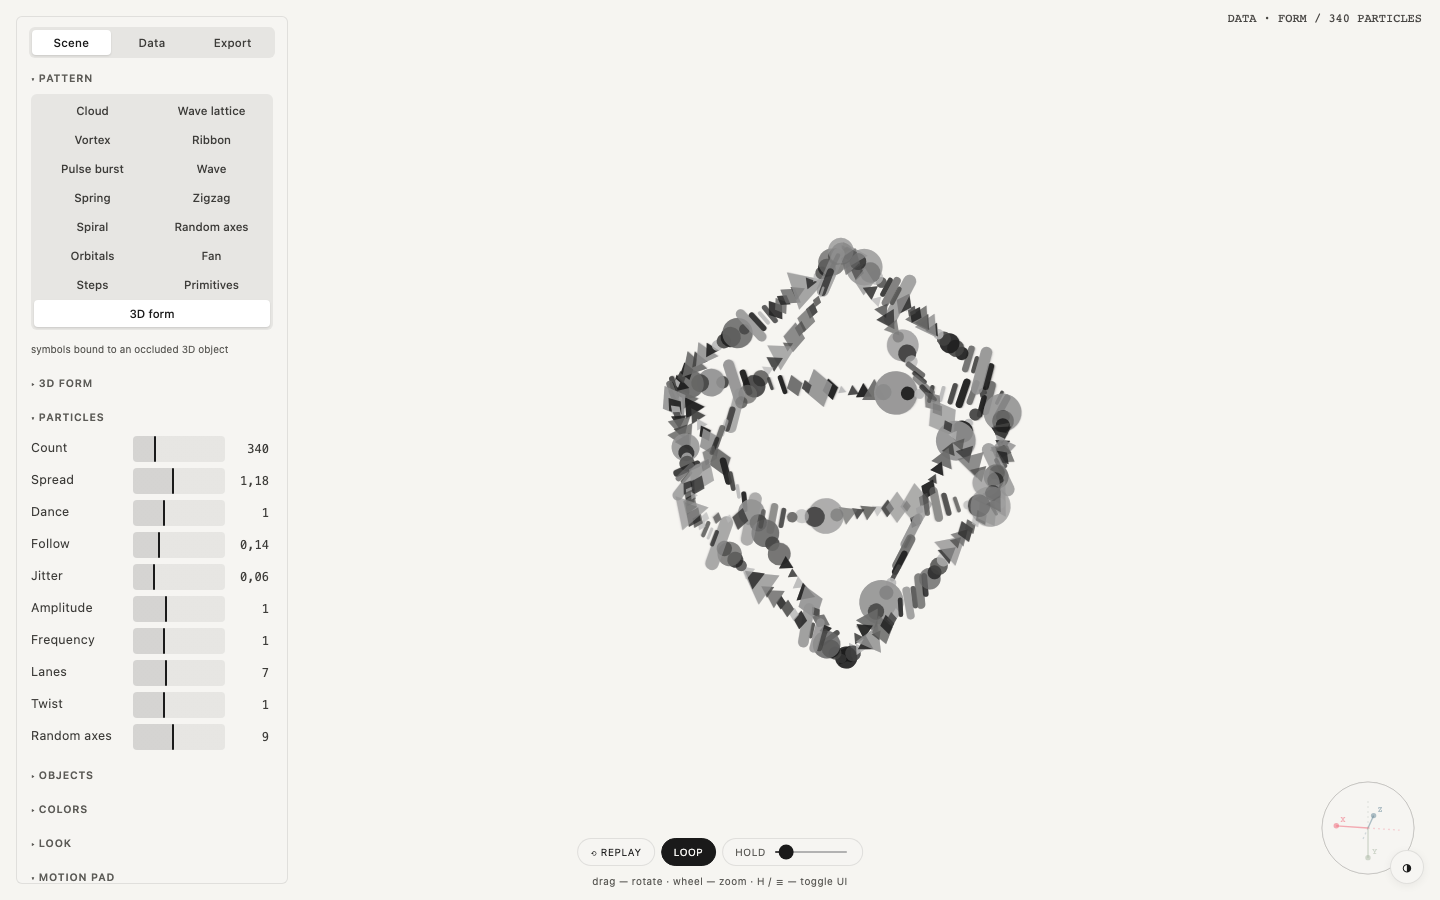
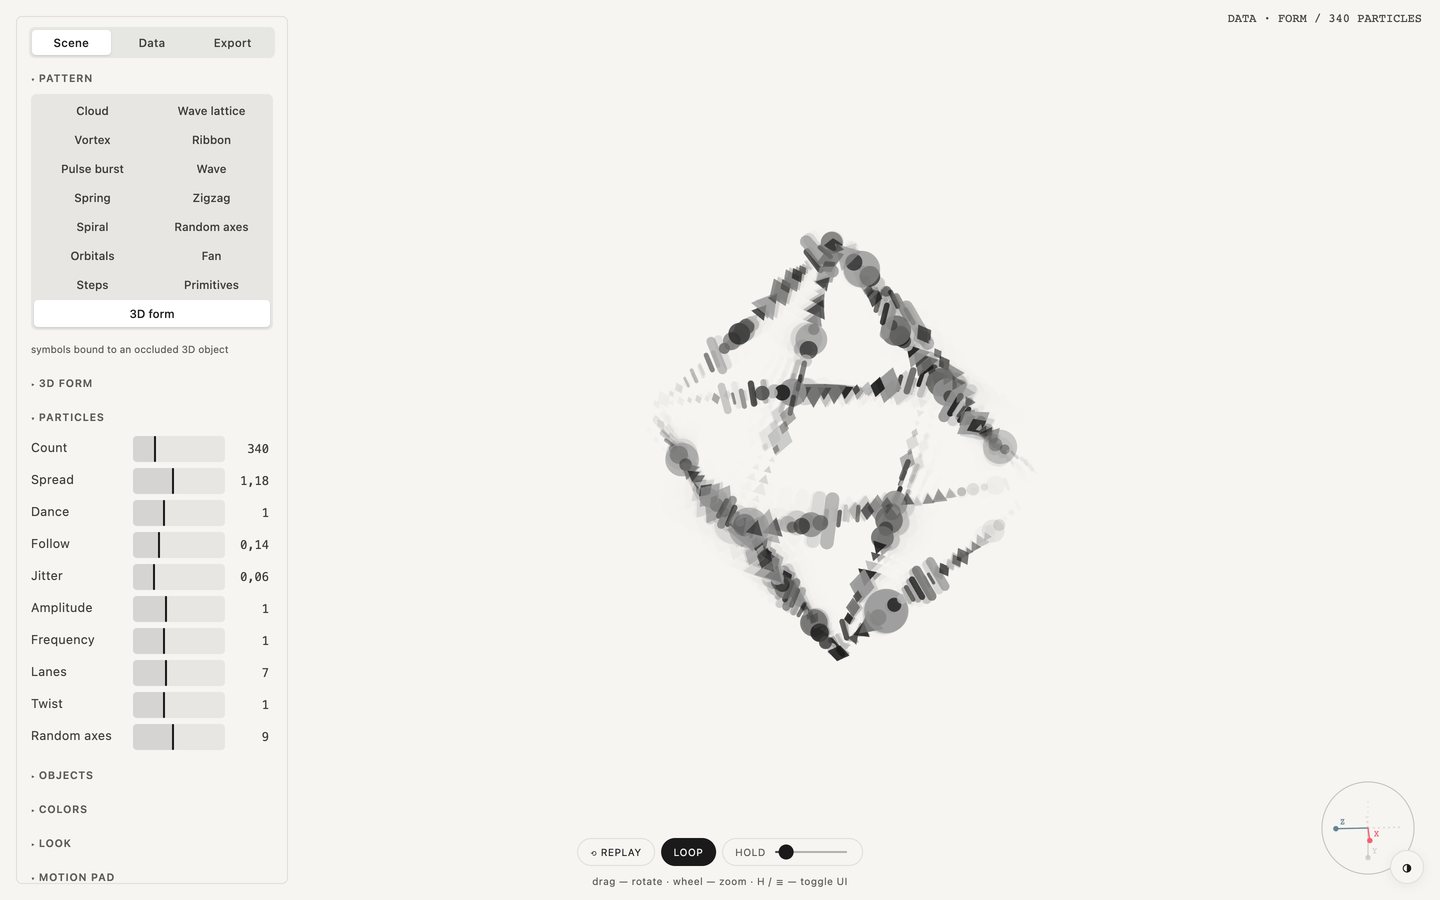
Cover, preview and search-friendly description

Changed region(s): [[0.4375, 0.2489, 0.7188, 0.7467], [0.9375, 0.9022, 0.9688, 0.9333]]

diff --git a/index.html b/index.html
@@ -82,7 +82,7 @@ body.noui #uitoggle{display:flex}
 body.dark #uitoggle{background:#151513;color:#f6f5f2;border-color:#383631}
 #selftest{position:fixed;right:16px;bottom:16px;background:#111;color:#0f0;padding:6px 8px;border-radius:6px;display:none;z-index:6}
 </style>
[2 lines of base64/hex data omitted]
 <style>
 :root{--h-bg:#f6f5f2;--h-card:#ecebe6;--h-field:#ffffff;--h-ink:#1a1a1a;--h-ink2:#3d3c39;--h-ink3:#5c5b57;--h-fill:rgba(26,26,26,.07);--h-fill-hover:rgba(26,26,26,.10);--h-fill-strong:rgba(26,26,26,.15);--h-fill-active:rgba(26,26,26,.24);--h-hair:rgba(26,26,26,.10);--h-line:rgba(26,26,26,.14);--h-seg-on:#ffffff;--h-track-s:.02em;--h-ring:oklch(.49 .08 182);--h-sans:-apple-system,BlinkMacSystemFont,"SF Pro Text","SF Pro Display","Inter","Segoe UI",Roboto,Helvetica,Arial,sans-serif;--h-mono:ui-monospace,"SF Mono",SFMono-Regular,Menlo,Consolas,monospace;--h-display:"Inter Tight",-apple-system,BlinkMacSystemFont,"SF Pro Display",system-ui,sans-serif;
   --paper:var(--h-bg);--ink:var(--h-ink);--muted:var(--h-ink3);--line:var(--h-hair);--accent:var(--h-ink);--panel:var(--h-bg)}

diff --git a/README.md b/README.md
@@ -19,6 +19,12 @@
 
 A field of small symbols that never stands still. Pick a pattern, bind it to a solid, feed it a few numbers and let it move.
 
+## Use it for
+
+- an animated hero or background for a website or a deck
+- generative motion for a brand identity, social posts and covers
+- a few numbers shown as moving groups of symbols
+
 ## What it does
 
 - **15 patterns:** cloud, wave lattice, vortex, ribbon, pulse burst, wave, spring, zigzag, spiral, random axes, orbitals, fan, steps, primitives and 3D form
@@ -39,26 +45,26 @@ Take it if you want it.
 
 ## More tools
 
+- [GONE](https://github.com/robvagin/gone-player) · a macOS player for the thirty minutes before a DJ set
+- [PSP Engine](https://github.com/robvagin/shar-psp-engine) · a native engine that runs a PS2 game on the PSP. Not an emulator
+- [XYZ Cube](https://github.com/robvagin/xyz-cube) · your data as points in a 3D cube on axes you name
+- [Pack Label](https://github.com/robvagin/pack-label) · coffee bag labels, checked and ready for print
+- [Image Shuffler](https://github.com/robvagin/image-shuffler) · your screenshots flying in 3D, recorded as a video
+- [Sunburst](https://github.com/robvagin/sunburst) · a hierarchy as a 3D sunburst chart with height
+- [Halftone Cloud](https://github.com/robvagin/halftone-cloud) · images rebuilt as a halftone of flying shapes
+- [Motion Primer](https://github.com/robvagin/motion-primer) · bodies that swarm, orbit, fall and gather into a word
 - [Murmur](https://github.com/robvagin/murmur-vj) · a VJ visualizer: circles, triangles and squares that move to your music
+- [Particles 3D](https://github.com/robvagin/particles-3d) · a WebGL2 cloud of up to 300,000 particles
+- [Thinking Sphere](https://github.com/robvagin/thinking-sphere) · a glass sphere with soft shapes drifting inside
+- [Line Engine](https://github.com/robvagin/line-engine) · engraved line patterns in motion: Lissajous, rosettes, waves
 - [Orbital](https://github.com/robvagin/orbital) · data as orbits, axes or a bending mesh
 - [Metaballs](https://github.com/robvagin/metaballs) · soft masses that merge, split and leave holes
-- [Halftone Cloud](https://github.com/robvagin/halftone-cloud) · images rebuilt as a halftone of flying shapes
 - [Logomachine](https://github.com/robvagin/logomachine) · seeded generative marks: one seed, one pattern, always
-- [Motion Primer](https://github.com/robvagin/motion-primer) · bodies with behaviors: swarm, pack, magnet, orbit, fall, scatter
-- [Particles 3D](https://github.com/robvagin/particles-3d) · a WebGL2 cloud of up to 300,000 particles
-- [Orb Atom](https://github.com/robvagin/orb-atom) · glass orbs that think: lenses with soft bodies drifting inside
 - [Ellipse Sphere](https://github.com/robvagin/ellipse-sphere) · a sphere built from stacked discs that fan open and assemble
-- [Thinking Sphere](https://github.com/robvagin/thinking-sphere) · a glass sphere with soft shapes drifting inside
-- [SphereGen](https://github.com/robvagin/spheregen) · a glass sphere that bends whatever is behind it: generative scenes, photos, video
-- [Line Engine](https://github.com/robvagin/line-engine) · engraved line patterns: superformulas, rosettes, waves and Lissajous, in motion
-- [XYZ Cube](https://github.com/robvagin/xyz-cube) · your data as points in a 3D cube on axes you name
 - [Hexbin](https://github.com/robvagin/hexbin) · a point cloud counted into 3D hexagon towers
 - [Chart 3D](https://github.com/robvagin/chart-3d) · pie, bars, polar and area charts in 3D, with an entrance
-- [Sunburst](https://github.com/robvagin/sunburst) · a hierarchy as a 3D sunburst with height
 - [Voronoi](https://github.com/robvagin/voronoi) · points that share space as cells, inside any shape
-- [Image Shuffler](https://github.com/robvagin/image-shuffler) · your screens flying in 3D, ready to record as a video
 - [Motion Pad](https://github.com/robvagin/motion-pad) · one pad for the character of motion
-- [Pack Label](https://github.com/robvagin/pack-label) · one label per coffee lot, checked and ready for print
 
 ## License
 
